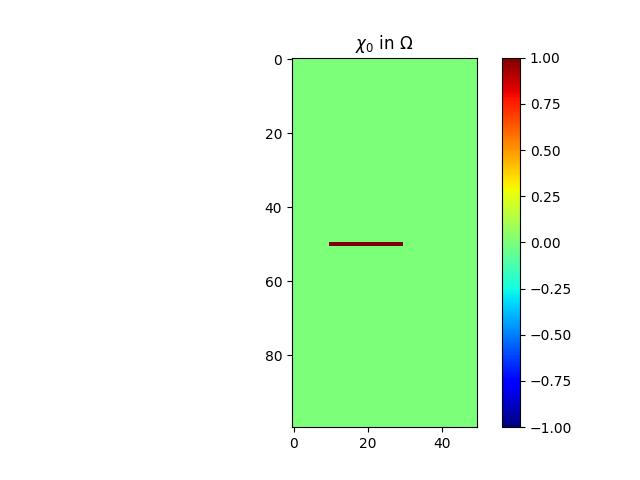
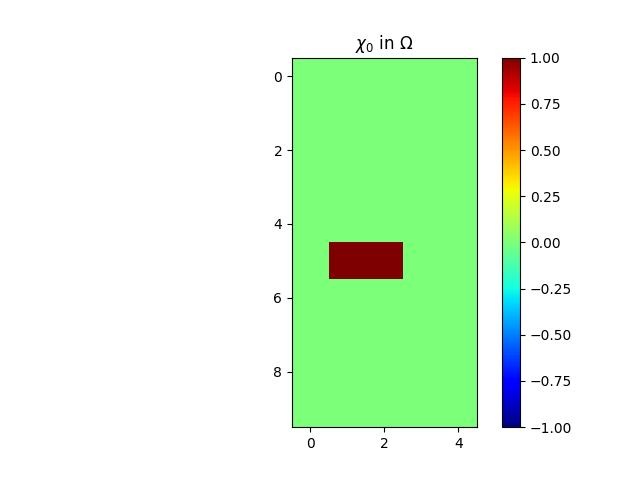
compute q

diff --git a/demo_control_polycopie2023.py b/demo_control_polycopie2023.py
@@ -26,6 +26,10 @@ def your_optimization_procedure(domain_omega, spacestep, omega, f, f_dir, f_neu,
         mu: float, it is the initial step of the gradient's descent;
         V_obj: float, it characterizes the volume constraint on the density chi.
     """
+    g_dir=numpy.zeros(f_dir.shape)
+    g_neu=numpy.zeros(f_neu.shape)
+    g_rob=numpy.zeros(f_rob.shape)
+
 
     k = 0
     (M, N) = numpy.shape(domain_omega)
@@ -36,10 +40,12 @@ def your_optimization_procedure(domain_omega, spacestep, omega, f, f_dir, f_neu,
         print('1. computing solution of Helmholtz problem, i.e., u')
         u = processing.solve_helmholtz(domain_omega, spacestep, omega, f, f_dir, f_neu, f_rob,
                                        beta_pde, alpha_pde, alpha_dir, beta_neu, beta_rob, alpha_rob)
-
+        
+    
         print('2. computing solution of adjoint problem, i.e., p')
-        p = processing.solve_helmholtz(domain_omega, spacestep, omega, f, f_dir, f_neu, f_rob,
+        q=processing.solve_helmholtz(domain_omega, spacestep, omega, -2*numpy.conjugate(u), g_dir, g_neu, g_rob,
                                        beta_pde, alpha_pde, alpha_dir, beta_neu, beta_rob, alpha_rob)
+        
         print('3. computing objective function, i.e., energy')
         energy[k] = your_compute_objective_function(domain_omega, u, spacestep)
         print('4. computing parametric gradient')
@@ -102,7 +108,7 @@ if __name__ == '__main__':
     # -- Fell free to modify the function call in this cell.
     # ----------------------------------------------------------------------
     # -- set parameters of the geometry
-    N = 50  # number of points along x-axis
+    N = 5  # number of points along x-axis
     M = 2 * N  # number of points along y-axis
     level = 0  # level of the fractal
     spacestep = 1.0 / N  # mesh size
@@ -126,6 +132,7 @@ if __name__ == '__main__':
     # -- set geometry of domain
     domain_omega, x, y, _, _ = preprocessing._set_geometry_of_domain(
         M, N, level)
+    print('domain omega ------------------------------------------', domain_omega)
 
     # ----------------------------------------------------------------------
     # -- Fell free to modify the function call in this cell.
